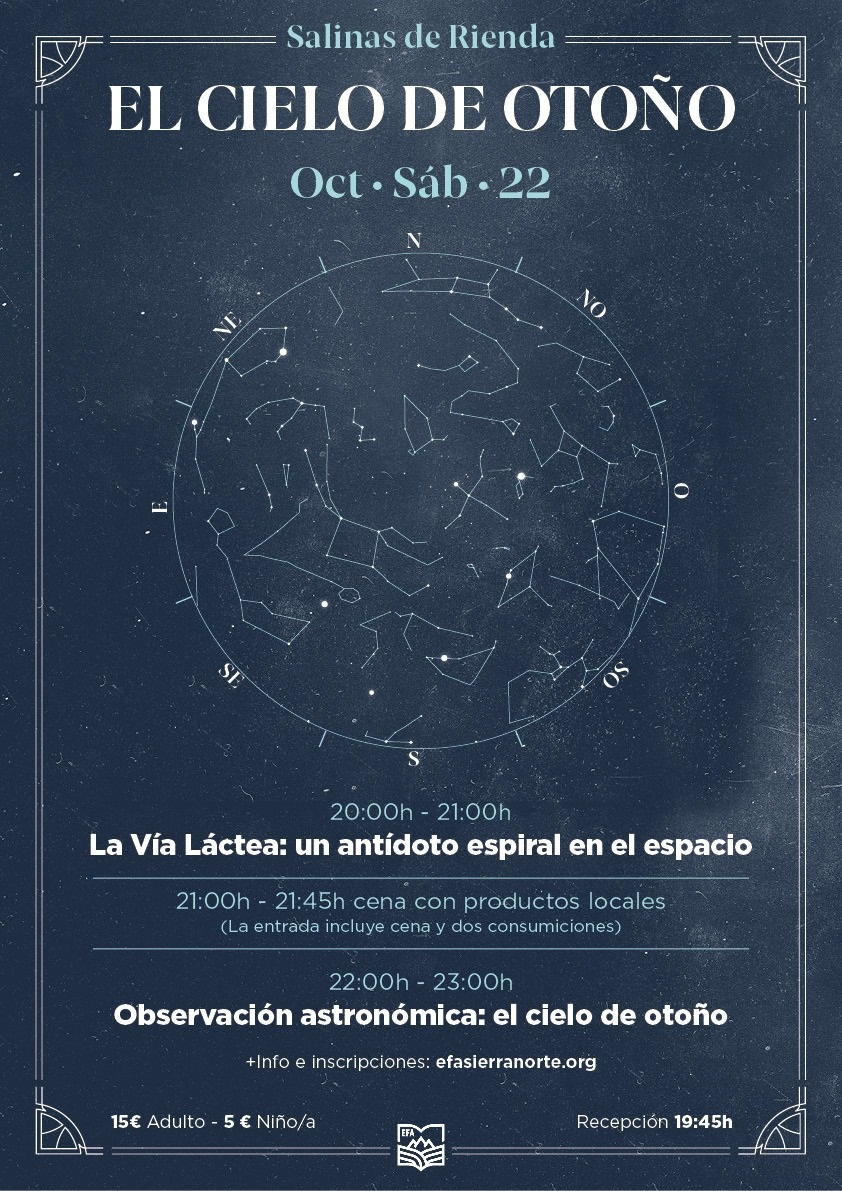
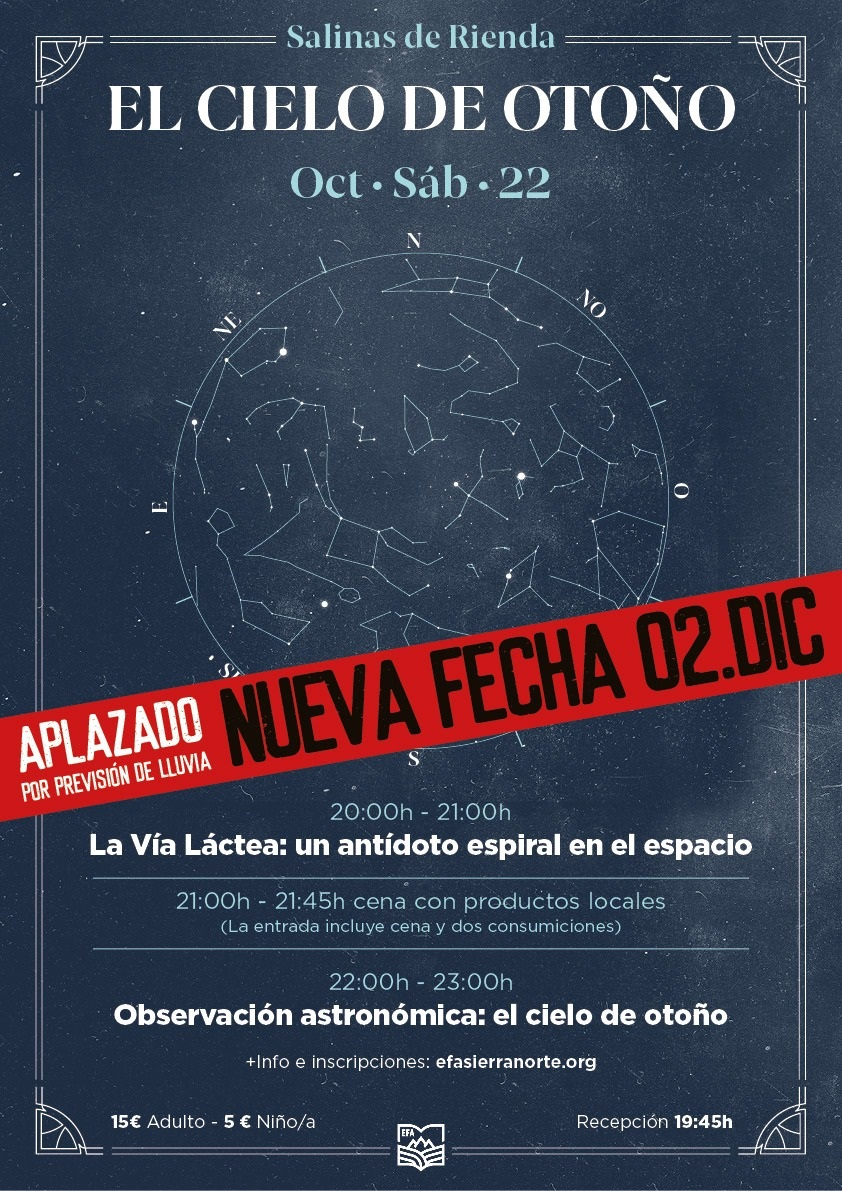
cielo

Changed region(s): [[0.0, 0.466, 1.0, 0.7145]]

diff --git a/index.html b/index.html
@@ -634,13 +634,13 @@
 										<p>Curso de Ecología</p>
 									</div>
 									<div class="meta">
-										<time class="published" datetime="2022-22-10">22 Octubre, 2022</time>
+										<time class="published" datetime="2022-02-12">02 Diciembre, 2022</time>
 										<p class="author"><span class="name">Isaac</span><img src="images/avatar_isaac.jpg" alt="" />
 										<p class="author"><span class="name">Enrique</span></p><img src="images/avatar_colsa.jpg" alt="" /></p>
 									</div>
 								</header>
 								<a href="eco_cielo2.html" class="image featured"><img src="images/eco_cielo.jpg" alt="" /></a>
-								<p>El sábado 22 de Octubre, luna nueva, nos juntaremos en un paraje asombroso, las Salinas de Rienda...</p>
+								<p>El sábado 2 de Diciembre, luna nueva, nos juntaremos en un paraje asombroso, las Salinas de Rienda...</p>
 								<footer>
 									<ul class="actions">
 										<li><a href="eco_cielo2.html" class="button large">Ver y apuntarse al curso</a></li>
@@ -1716,7 +1716,7 @@
 										<article class="mini-post">
 											<header>
 												<h3><a href="eco_cielo2.html">EL CIELO DE UNA NOCHE DE OTOÑO</a></h3>
-												<time class="published" datetime="2022-22-10">22 Otoño, 2022</time>
+												<time class="published" datetime="2022-02-12">02 Diciembre, 2022</time>
 												<a href="#" class="author"><img src="images/avatar_isaac.jpg" alt="" /></a>
 											</header>
 											<a href="eco_cielo2.html" class="image"><img src="images/eco_cielo.jpg" alt="" /></a>
@@ -2021,7 +2021,7 @@
 										<article>
 											<header>
 												<h3><a href="eco_cielo2.html">EL CIELO DE UNA NOCHE DE OTOÑO</a></h3>
-												<time class="published" datetime="2022-22-10">22 Octubre, 2022 </time>
+												<time class="published" datetime="2022-02-12">2 Diciembre, 2022 </time>
 											</header>
 											<a href="eco_cielo2.html" class="image"><img src="images/eco_cielo_list.jpg" alt="" /></a>
 										</article>

diff --git a/ecologia.html b/ecologia.html
@@ -96,12 +96,12 @@
 										<p>Curso de Ecología</p>
 									</div>
 									<div class="meta">
-										<time class="published" datetime="2022-22-10">22 Otoño, 2022</time>
+										<time class="published" datetime="2022-02-12">02 Diciembre, 2022</time>
 										<p class="author"><span class="name">Isaac y Enrique</span><img src="images/avatar_isaac.jpg" alt="" /></p>
 									</div>
 								</header>
 								<a href="eco_cielo2.html" class="image featured"><img src="images/eco_cielo.jpg" alt="" /></a>
-								<p>El sábado 22 de Otoño, luna nueva, nos juntaremos en un paraje asombroso, las Salinas de Rienda...</p>
+								<p>El sábado 02 de Diciembre, luna nueva, nos juntaremos en un paraje asombroso, las Salinas de Rienda...</p>
 								<footer>
 									<ul class="actions">
 										<li><a href="eco_cielo2.html" class="button large">Ver y apuntarse al curso</a></li>
@@ -327,7 +327,7 @@
 										<article class="mini-post">
 											<header>
 												<h3><a href="eco_cielo2.html">EL CIELO DE UNA NOCHE DE OTOÑO</a></h3>
-												<time class="published" datetime="2022-22-10">22 Otoño, 2022</time>
+												<time class="published" datetime="2022-02-12">02 Diciembre, 2022</time>
 												<a href="#" class="author"><img src="images/avatar_isaac.jpg" alt="" /></a>
 											</header>
 											<a href="eco_cielo2.html" class="image"><img src="images/eco_cielo.jpg" alt="" /></a>
@@ -409,7 +409,7 @@
 										<article>
 											<header>
 												<h3><a href="eco_cielo2.html">EL CIELO DE UNA NOCHE DE OTOÑO</a></h3>
-												<time class="published" datetime="2022-22-10">22 Octubre, 2022 </time>
+												<time class="published" datetime="2022-02-12">02 Diciembre, 2022 </time>
 											</header>
 											<a href="eco_cielo2.html" class="image"><img src="images/eco_cielo_list.jpg" alt="" /></a>
 										</article>

diff --git a/eco_cielo2.html b/eco_cielo2.html
@@ -96,13 +96,13 @@
 										<p>Curso de ecología</p>
 									</div>
 									<div class="meta">
-										<time class="published" datetime="2022-10-22">Otoño 22, 2022</time>
+										<time class="published" datetime="2022-02-12">02 Diciembre, 2022</time>
 										<p class="author"><span class="name">Isaac Alcázar</span><img src="images/avatar_isaac.jpg" alt="" /></p>
 										<p class="author"><span class="name">Enrique Colsa</span></p><img src="images/avatar_colsa.jpg" alt="" /></p>
 									</div>
 								</header>
 								<a class="image featured"><img src="images/eco_cielo2_curso.jpg" alt="" /></a>
-								<p>El sábado 22 de Otoño, luna nueva, nos juntaremos en un paraje asombroso, las Salinas de Rienda.<br>
+								<p>El sábado 02 de Diciembre, luna nueva, nos juntaremos en un paraje asombroso, las Salinas de Rienda.<br>
 								</br> Allí disfrutaremos de tapas locales, cervezas frías, buenas compañías y, sobre todo, del espectáculo del cielo nocturno.
 								<br> Junto a dos monitores astronómicos exploraremos el devenir de la relación entre la humanidad y el cielo estrellado; y observaremos cuando caiga la noche las constelaciones características de esta época del año en un lugar privilegiado, que forma parte de la Reserva StarLight de cielo oscuro en la Sierra Norte de Guadalajara.
 								</br>Os esperamos.</br>
